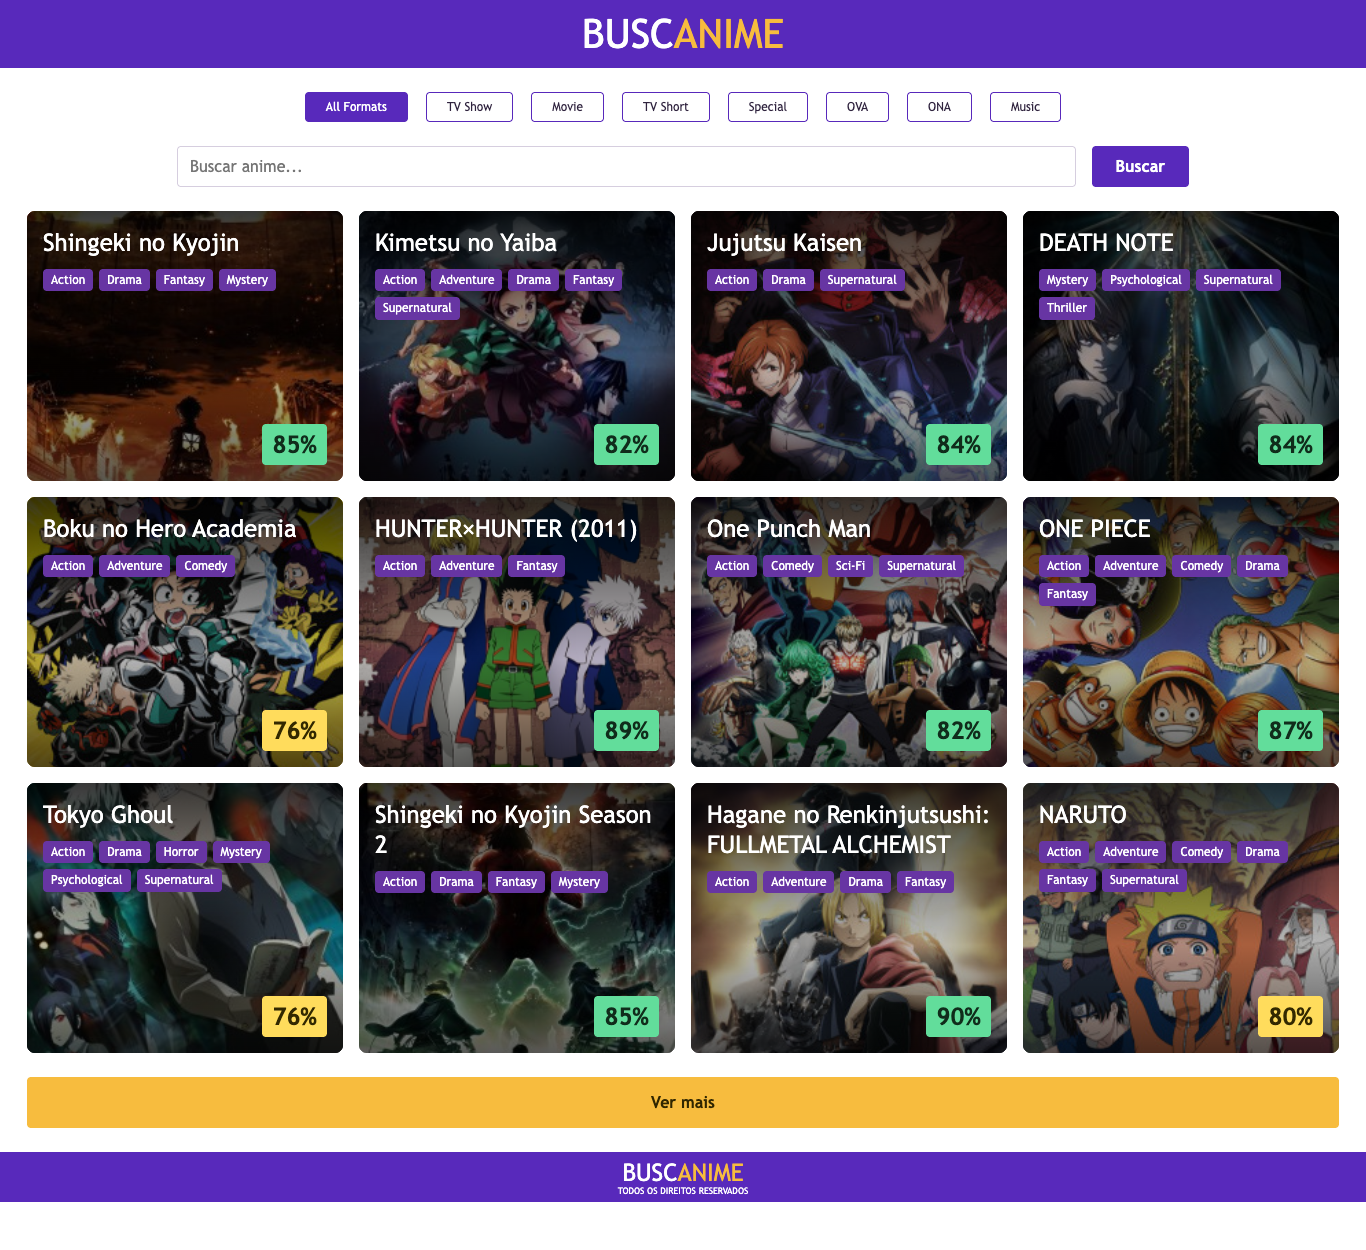
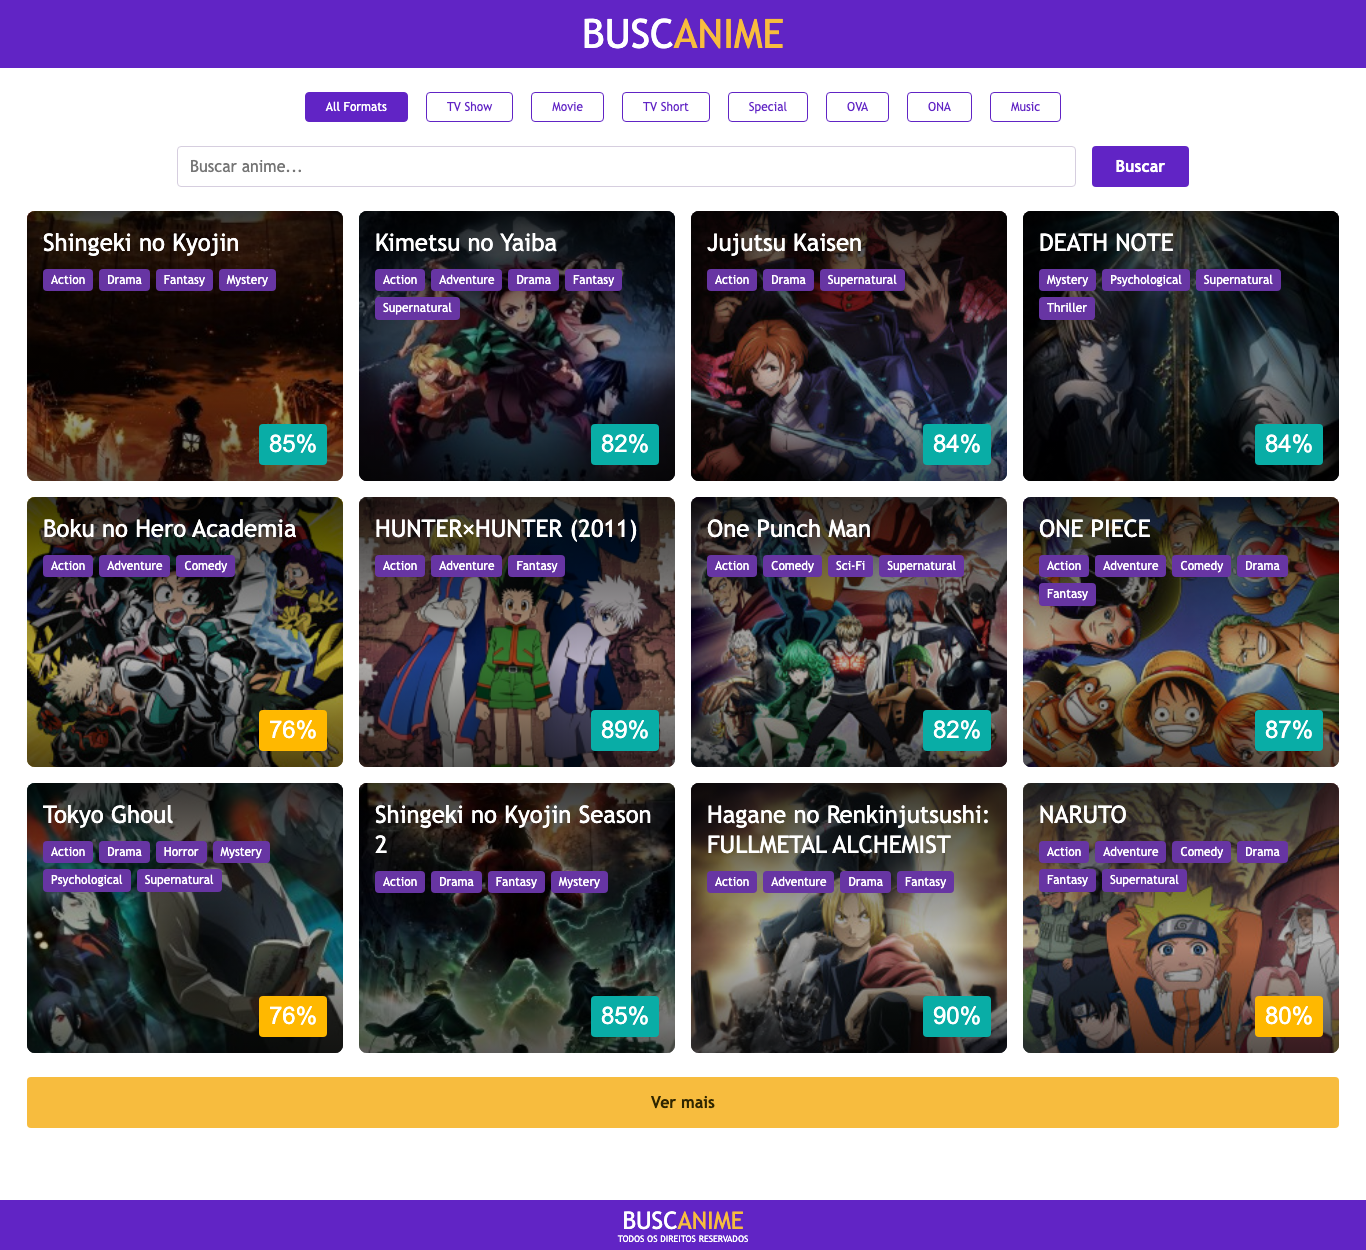
fix: match filter and score colors to Figma reference

diff --git a/e2e/catalog.spec.ts b/e2e/catalog.spec.ts
@@ -354,3 +354,56 @@ for (const [width, height] of [
     await expect(page.getByTestId('compact-skeleton')).toHaveCount(0);
   });
 }
+
+test('score badge and format colors match the sampled design tokens', async ({
+  page,
+}) => {
+  const samples = [49, 50, 80, 81, null];
+  await page.route('https://graphql.anilist.co', (route) =>
+    route.fulfill({
+      json: body(
+        samples.map((score, index) => ({
+          ...item(index + 1),
+          averageScore: score,
+        })),
+      ),
+    }),
+  );
+  await page.goto('/');
+  await expect(page.getByRole('article')).toHaveCount(5);
+  const colors = [
+    'rgb(234, 33, 81)',
+    'rgb(255, 184, 0)',
+    'rgb(255, 184, 0)',
+    'rgb(9, 173, 166)',
+  ];
+  for (const [index, score] of samples.entries()) {
+    const badge = page.getByLabel(
+      score === null ? 'Sem avaliação' : `Avaliação: ${score} de 100`,
+      { exact: true },
+    );
+    if (score === null) {
+      await expect(badge).toHaveCSS('color', 'rgb(53, 44, 64)');
+      await expect(badge).toHaveCSS('background-color', 'rgb(236, 232, 240)');
+      await expect(badge).toHaveText('Sem avaliação');
+    } else {
+      await expect(badge).toHaveText(`${score}%`);
+      await expect(badge).toHaveCSS('color', 'rgb(255, 255, 255)');
+      await expect(badge).toHaveCSS('background-color', colors[index]);
+      await expect(badge).toHaveCSS('font-weight', '400');
+      await expect(badge).toHaveCSS('font-size', '24px');
+      await expect(badge).toHaveCSS('font-family', 'Arial, sans-serif');
+    }
+  }
+  const all = page.getByRole('button', { name: 'All Formats' });
+  const movie = page.getByRole('button', { name: 'Movie', exact: true });
+  await expect(movie).toHaveCSS('color', 'rgb(97, 36, 197)');
+  await expect(movie).toHaveCSS('border-top-color', 'rgb(97, 36, 197)');
+  await expect(all).toHaveCSS('color', 'rgb(255, 255, 255)');
+  await expect(all).toHaveCSS('background-color', 'rgb(97, 36, 197)');
+  await movie.click();
+  await expect(movie).toHaveAttribute('aria-pressed', 'true');
+  await expect(movie).toHaveCSS('color', 'rgb(255, 255, 255)');
+  await expect(all).toHaveCSS('color', 'rgb(97, 36, 197)');
+  await expect(all).toHaveCSS('border-top-color', 'rgb(97, 36, 197)');
+});

diff --git a/src/features/anime-catalog/AnimeCard.module.css b/src/features/anime-catalog/AnimeCard.module.css
@@ -98,22 +98,23 @@
   margin-top: auto;
   padding: 6px 10px;
   border-radius: 4px;
+  font-family: Arial, sans-serif;
   font-size: 1.5rem;
-  font-weight: 700;
+  font-weight: 400;
   line-height: 1.2;
 }
 
 .red {
-  background: #fa6464;
-  color: #261010;
+  background: var(--score-red);
+  color: #fff;
 }
 .yellow {
-  background: #ffdc5c;
-  color: #322800;
+  background: var(--score-yellow);
+  color: #fff;
 }
 .green {
-  background: #62dd9b;
-  color: #102c1b;
+  background: var(--score-green);
+  color: #fff;
 }
 .neutral {
   background: #ece8f0;

diff --git a/src/app/global.css b/src/app/global.css
@@ -3,7 +3,10 @@
   color: #26222e;
   background: #fff;
   font-synthesis: none;
-  --purple: #5829bb;
+  --purple: #6124c5;
+  --score-red: #ea2151;
+  --score-yellow: #ffb800;
+  --score-green: #09ada6;
   --yellow: #f7bc3e;
 }
 * {

diff --git a/src/features/anime-catalog/AnimeCatalog.module.css b/src/features/anime-catalog/AnimeCatalog.module.css
@@ -20,7 +20,7 @@
   border: 1px solid var(--purple);
   border-radius: 4px;
   background: transparent;
-  color: var(--color-text, #30243f);
+  color: var(--purple);
   padding: 7px 20px;
   font: inherit;
   font-size: 0.75rem;

diff --git a/docs/validation.md b/docs/validation.md
@@ -38,3 +38,9 @@ Developer specified footer flow and skeleton reservation before implementation. 
 QA correction: empty-to-pending previously expanded 12 placeholders. Compact decorative bars now fill only the measured empty result region; flow-root contains its margins. New regressions cover 1440x900,390x844,390x400 and assert result top/height, footer position, accessible announcement and absence of card placeholders. Corrected developer checks: 38 unit/integration tests and 19 Chrome E2E passed, including all three new geometry cases. Live status moved outside aria-busy with a DOM regression; final npm run check and format:check passed after this accessibility adjustment. Independent revalidation remains required.
 
 Final independent QA revalidation passed: 38 unit/integration tests, 19 Chromium E2E, lint, TypeScript, production build and formatting. Empty-to-pending geometry differed by less than 1px across all three viewport regressions. Root rebuilt Docker with PORT=18080 and Compose --wait reported healthy; production-browser smoke at390x844 measured footer y794 both before and during a pending search. Final reviewer approval remains pending before commit; its outcome will be recorded in the gate messages.
+
+## Visual tokens — R13
+
+Developer specified approximate screenshot-derived sRGB colors before implementation. Added computed-style browser checks for numeric scores 49/50/80/81, neutral missing score, font size/weight/family, and inactive/selected filter text/border/background. Existing footer/skeleton geometry remains in the browser suite. Developer verification passed: npm run check (lint, TypeScript, 38 unit/integration tests and production build), 20 Chrome E2E including computed styles and all footer/skeleton regressions, and npm run format:check. Independent QA/reviewer gate pending; no approval claimed.
+
+Independent QA passed 38 unit/integration tests, 20 Chromium E2E, lint, TypeScript, build and formatting. Root rebuilt Docker at PORT=18080 with healthy status; production browser confirmed inactive Movie text and border both rgb(97,36,197). Updated docs/preview.png using the production app with live AniList covers and inspected the result. Final reviewer gate remains pending before commit.

diff --git a/docs/specification.md b/docs/specification.md
@@ -19,6 +19,8 @@ Design: https://www.figma.com/design/PPvIPPITdlgZo9CeGDVezk?node-id=3396-64
 - R11: Footer reaches the viewport bottom for empty/short catalogs and follows long content in normal document flow, without fixed positioning or overlap.
 - R12: Initial loading shows 12 decorative skeleton cards and an accessible loading announcement. Criteria changes show the previous item count as skeletons (12 initially), reserve the previous complete result-area height including load-more, and never show old records under new criteria. After an empty result, show a compact decorative loading placeholder inside the measured previous result area instead of proportional cards. Grid top and footer position remain stable while pending; resolved results may naturally resize. Cached immediate success needs no skeleton. Additional-page loading keeps existing cards and appends 12 decorative skeletons in the same grid. Skeleton respects reduced motion.
 
+- R13: Outlined format text and borders use primary purple #6124c5; selected formats keep white text. Numeric score badges use white, regular-weight 24px Arial/sans-serif on red #ea2151, yellow #ffb800 or turquoise #09ada6. Preserve written score boundaries (80 yellow) and dark neutral Sem avaliação. Colors approximate ICC-converted screenshot samples, not Figma node metadata.
+
 ## SDD workflow
 
 Specify -> derive tests -> implement -> QA -> corrections/revalidation -> reviewer -> commit. Update this specification before changing intended behavior. Evidence maps requirement IDs to checks; never label unexecuted checks as passed.

diff --git a/AI_LOG.md b/AI_LOG.md
@@ -29,3 +29,7 @@ User requested stable loading and a footer at the bottom for sparse catalogs. Fr
 QA clarified additional-page feedback: added 12 decorative skeletons after existing cards in the same grid and strengthened the deferred-page browser regression.
 
 QA revoked the layout approval after reproducing empty-result-to-pending expansion on desktop/mobile. Developer replaced the empty transition with compact absolute loading bars inside the measured result region, contained paragraph margins with flow-root, and added desktop/mobile/short-viewport geometry regressions. Initial and nonempty skeleton behavior remains separate.
+
+## Format and score visual correction
+
+User identified dark inactive filter text and dark bold score numbers diverging from the Figma. Root sampled the reference JPEG and converted its Display P3 profile to sRGB; frontend agent specified R13 first, then applied primary/score tokens and regular white numeric text. Preserved 80 as yellow and neutral missing scores. Rejected claiming exact Figma metadata or contrast compliance from screenshot-derived colors; documented the low-contrast fidelity trade-off. Added computed-style browser regression for boundary values and filter selection. Independent QA/reviewer gate pending.

diff --git a/docs/design-tokens.md b/docs/design-tokens.md
@@ -1,0 +1,9 @@
+# Design color and score refinement
+
+R13 uses colors sampled from the Figma reference screenshot displayed at 50%, converting its Display P3 ICC profile to sRGB. These are approximate JPEG samples, not values extracted from design nodes. Primary purple is `#6124c5`; score red `#ea2151`, yellow `#ffb800`, turquoise `#09ada6`.
+
+Outlined formats share primary purple for text and border. Active filters keep white text on the primary fill. Primary branding shares the token. Numeric score text is white, 24px, regular 400 Arial/sans-serif, with no additional font download. Badge padding and layout are preserved. Missing scores retain dark neutral text and Sem avaliação.
+
+Written challenge rules still determine categories: below 50 red, 50–80 yellow, above 80 turquoise/green. The mockup's green 80 does not override that rule. Browser computed-style regression checks 49/50/80/81/null and inactive/selected filters.
+
+White text on these sampled badge backgrounds has limited contrast, especially yellow. This known trade-off follows the requested visual reference; it is not a WCAG contrast compliance claim. Numeric text and accessible labels continue conveying scores independently of color.

diff --git a/DECISIONS.md b/DECISIONS.md
@@ -9,6 +9,10 @@
 - No login, favorites, detail routes or backend. Prefer focused behavior tests over coverage targets.
 - Responsive layouts beyond provided desktop are adaptations. Live catalog titles/covers/scores vary over time.
 
+## Sampled design colors
+
+Primary and numeric score colors follow approximate JPEG reference samples converted from Display P3 to sRGB, not Figma node metadata. Score numbers use regular white Arial at 24px. White on the sampled badge backgrounds has limited contrast (especially yellow); this fidelity choice is recorded explicitly and is not a WCAG contrast compliance claim. Neutral missing-score text stays dark. Written score thresholds remain authoritative. See docs/design-tokens.md.
+
 ## With more time
 
 Hosted preview, broader browser/device checks, and designer review of responsive adaptations.

diff --git a/README.md b/README.md
@@ -63,6 +63,7 @@ Captured during a live Docker smoke; catalog data can change.
 ## Documentation
 
 - [Specification and SDD increments](docs/specification.md)
+- [Sampled design colors and badge styling](docs/design-tokens.md)
 - [Technical decisions and trade-offs](DECISIONS.md)
 - [Validation evidence and resolved findings](docs/validation.md)
 - [Final architecture](docs/architecture/README.md), [Mermaid](docs/architecture/architecture.mmd), [SVG](docs/architecture/architecture.svg)
